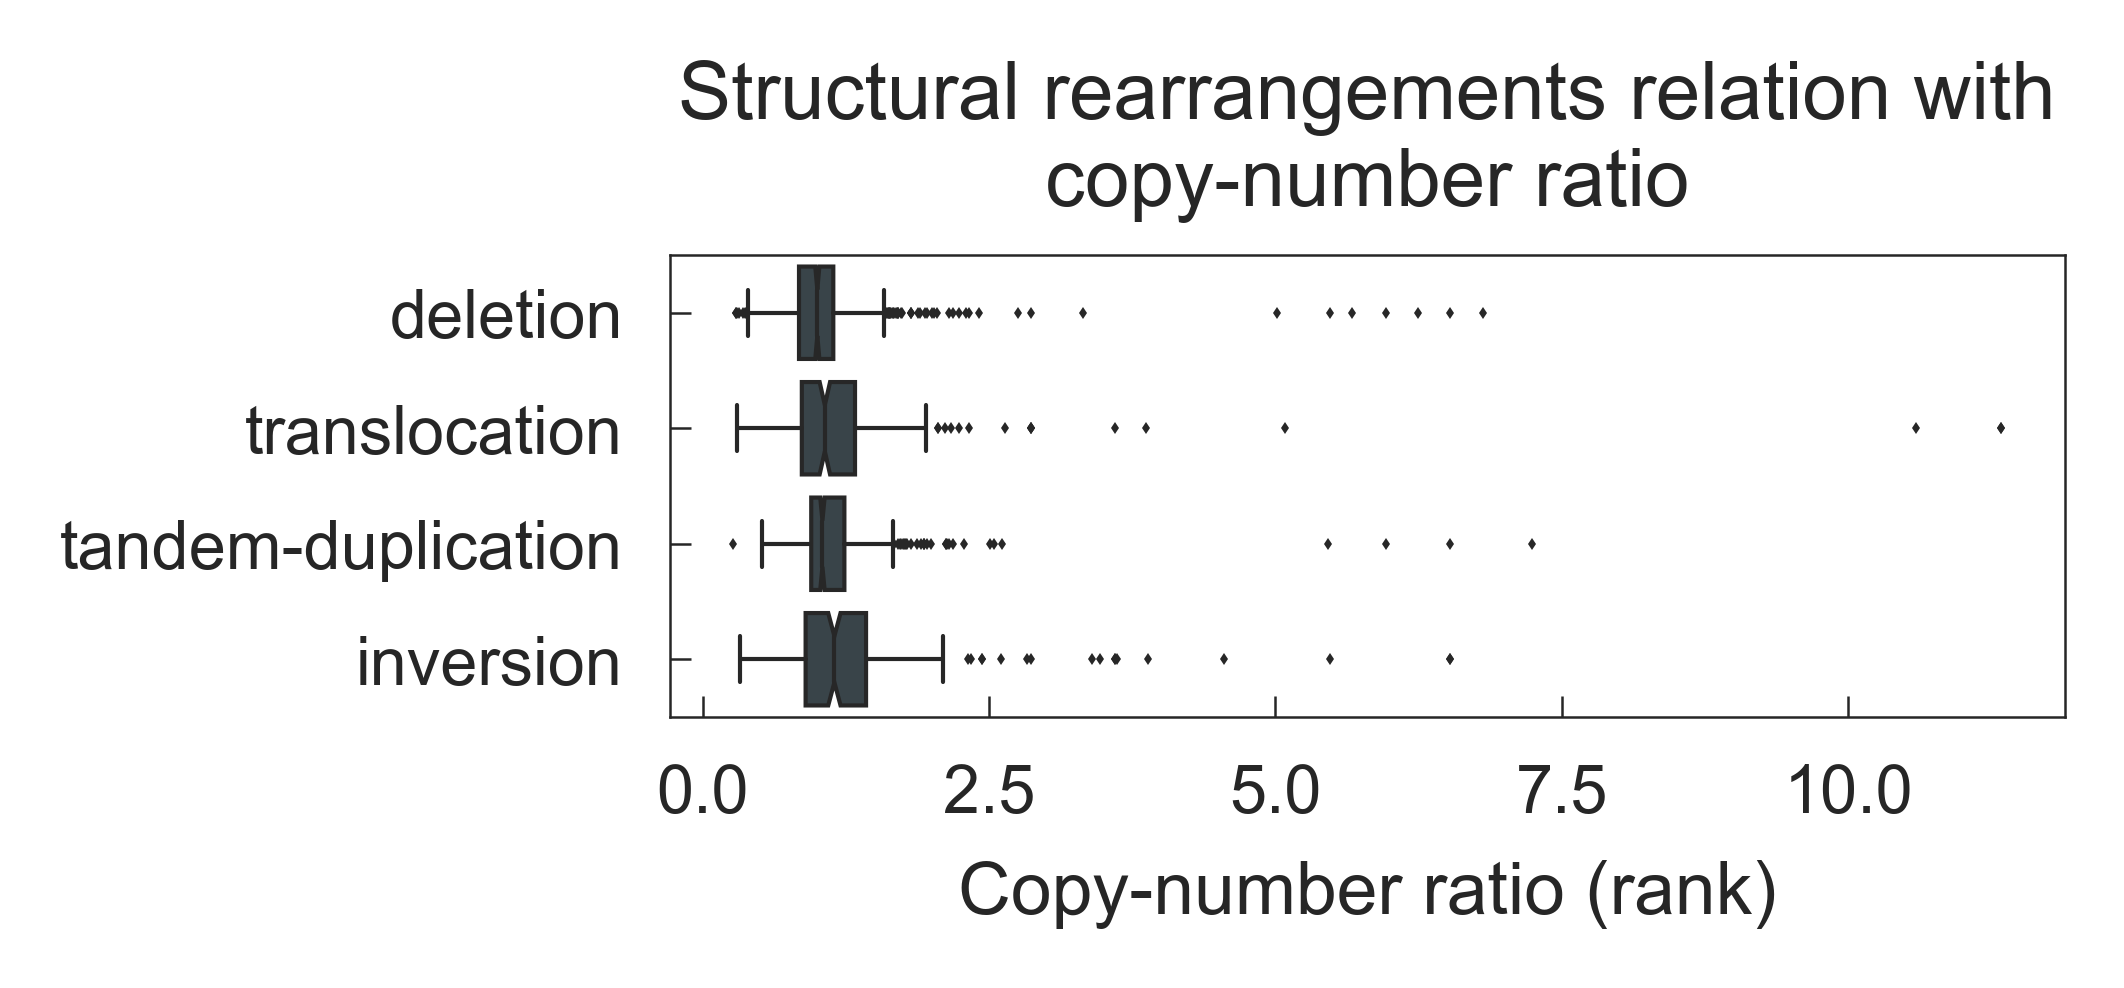
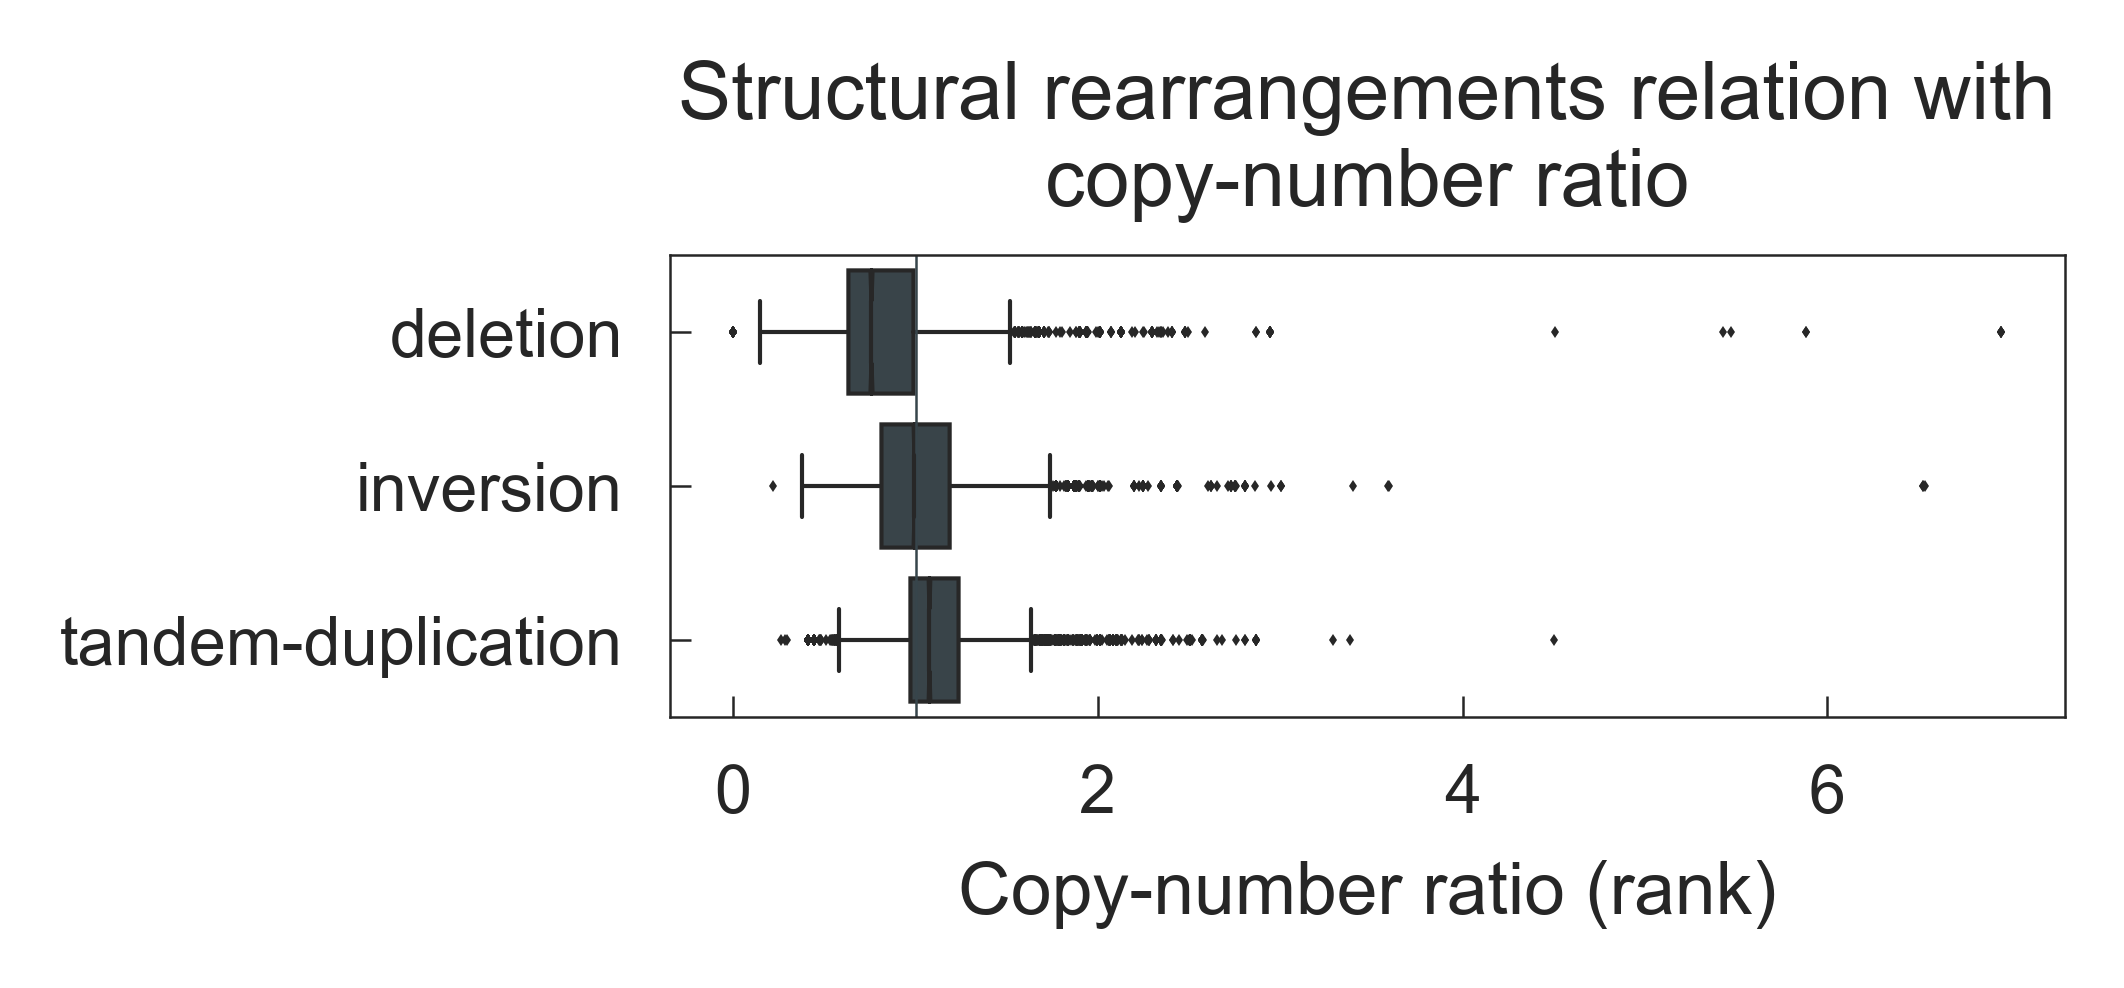
WGS Copy-number/CRISPR bias mapped.

diff --git a/scripts/crispy/annotate_bedpe.py b/scripts/crispy/annotate_bedpe.py
@@ -1,0 +1,229 @@
+#!/usr/bin/env python
+# Copyright (C) 2018 Emanuel Goncalves
+
+import os
+import numpy as np
+import pandas as pd
+import seaborn as sns
+import matplotlib.pyplot as plt
+from crispy import bipal_dbgd
+from pybedtools import BedTool
+from matplotlib.colors import rgb2hex
+from crispy.utils import multilabel_roc_auc_score
+from sklearn.metrics import roc_curve, auc, roc_auc_score
+from crispy.ratio import BRASS_HEADERS, GFF_FILE, GFF_HEADERS
+from scripts.crispy.processing.correct_cnv_bias import assemble_matrix
+
+
+def import_brass_bedpe(bedpe_file, same_chr=True, bkdist=2500, splitreads=True):
+    # Import BRASS bedpe
+    bedpe_df = pd.read_csv(bedpe_file, sep='\t', names=BRASS_HEADERS, comment='#')
+
+    # Correct sample name
+    bedpe_df['sample'] = bedpe_df['sample'].apply(lambda v: v.split(',')[0])
+
+    # Same chromossome SV
+    if same_chr:
+        bedpe_df = bedpe_df[bedpe_df['chr1'] == bedpe_df['chr2']]
+
+    # SV larger than threshold
+    bedpe_df = bedpe_df[bedpe_df['bkdist'] > bkdist]
+
+    # BRASS 2 annotated SV
+    if splitreads:
+        bedpe_df = bedpe_df.query("assembly_score != '_'")
+
+    # Assemble bed file
+    bed_df = pd.concat([
+        bedpe_df['chr1'].rename('#chr').apply(lambda x: 'chr{}'.format(x)),
+        bedpe_df['start1'].rename('start'),
+        bedpe_df['end2'].rename('end'),
+        bedpe_df['svclass'].rename('svclass')
+    ], axis=1)
+
+    return bed_df
+
+
+def annotate_bed(bed_file, methods='collapse,count'):
+    # Import Genes annotation bed file and specified bed file
+    gff, bed = BedTool(GFF_FILE).sort(), BedTool(bed_file).sort()
+
+    # Map GFF
+    genes_sv = gff.map(bed, c=4, o='collapse,count').to_dataframe(names=GFF_HEADERS + methods.split(','))
+
+    return genes_sv
+
+
+def annotate_brass_bedpe(bedpe_dir):
+    bed_dfs = []
+    for bedpe_file in map(lambda f: '{}/{}'.format(bedpe_dir, f), filter(lambda f: f.endswith('.brass.annot.bedpe'), os.listdir(bedpe_dir))):
+        print('[INFO] {}'.format(bedpe_file))
+
+        # Import and filter bedpe
+        bed_df = import_brass_bedpe(bedpe_file)
+
+        if bed_df.shape[0] > 0:
+            bed_file = '{}/{}.bed'.format(bedpe_dir, os.path.splitext(os.path.basename(bedpe_file))[0])
+            bed_df.to_csv(bed_file, sep='\t', index=False)
+
+            # Annotate SV with gene information
+            bed_annot_df = annotate_bed(bed_file).sort_values('count', ascending=False)
+
+            # Export
+            bed_annot_file = '{}/{}.genes.gff.tab'.format(bedpe_dir, os.path.splitext(os.path.basename(bedpe_file))[0])
+            bed_annot_df.to_csv(bed_annot_file, sep='\t', index=False)
+
+            # Append df
+            bed_annot_df = bed_annot_df.assign(sample=os.path.splitext(os.path.basename(bedpe_file))[0].split('.')[0])
+            bed_dfs.append(bed_annot_df)
+
+    # Assemble annotated bed dataframes
+    bed_dfs = pd.concat(bed_dfs)
+
+    # Filter genes without SVs
+    bed_dfs = bed_dfs.query("collapse != '.'")
+
+    return bed_dfs
+
+
+def plot_sv_ratios_arocs(plot_df, x='ratio', order=None):
+    order = ['deletion', 'inversion', 'tandem-duplication'] if order is None else order
+
+    ax = plt.gca()
+
+    for t, c in zip(order, map(rgb2hex, sns.light_palette(bipal_dbgd[0], len(order) + 1)[1:])):
+        y_true, y_score = plot_df['collapse'].map(lambda x: t in x).astype(int), plot_df[x]
+
+        fpr, tpr, _ = roc_curve(y_true, y_score)
+
+        ax.plot(fpr, tpr, label='{0:} (AUC={1:.2f})'.format(t.capitalize(), auc(fpr, tpr)), lw=1., c=c)
+
+    ax.plot((0, 1), (0, 1), 'k--', lw=.3, alpha=.5)
+    ax.set_xlim(0, 1)
+    ax.set_ylim(0, 1)
+    ax.set_xlabel('False positive rate')
+    ax.set_ylabel('True positive rate')
+    ax.set_title('Structural rearrangements relation with\ncopy-number ratio')
+
+    ax.legend(loc=4, prop={'size': 6})
+
+    return ax
+
+
+def plot_sv_ratios_arocs_per_sample(plot_df, groupby, x='ratio', y='collapse', order=None):
+    order = ['deletion', 'inversion', 'tandem-duplication'] if order is None else order
+    order_color = list(map(rgb2hex, sns.light_palette(bipal_dbgd[0], len(order) + 1)[1:]))
+
+    y_aucs = {}
+
+    for sample in set(plot_df[groupby]):
+        _plot_df = plot_df.query("{} == '{}'".format(groupby, sample)).dropna()
+
+        y_aucs[sample] = multilabel_roc_auc_score(y, x, _plot_df, min_events=5, invert=1)
+
+    y_aucs = pd.DataFrame(y_aucs).T.unstack().reset_index().dropna()
+    y_aucs.columns = ['svclass', 'sample', 'auc']
+
+    ax = plt.gca()
+
+    sns.boxplot('auc', 'svclass', data=y_aucs, orient='h', order=order, palette=order_color, notch=True, linewidth=.5, fliersize=1, ax=ax)
+    sns.stripplot('auc', 'svclass', data=y_aucs, orient='h', order=order, palette=order_color, edgecolor='white', linewidth=.1, size=3, jitter=.4, ax=ax)
+    plt.axvline(.5, lw=.3, c=bipal_dbgd[0])
+    plt.title('Structural rearrangements relation with\ncopy-number ratio')
+    plt.xlabel('Structural rearrangements ~ Copy-number ratio (AUC)')
+    plt.ylabel('')
+
+    return ax
+
+
+def plot_sv_ratios_boxplots(plot_df, x='ratio', y='collapse', order=None):
+    order = ['deletion', 'inversion', 'tandem-duplication'] if order is None else order
+
+    ax = plt.gca()
+
+    sns.boxplot(x, y, data=plot_df, orient='h', order=order, color=bipal_dbgd[0], notch=True, linewidth=.5, fliersize=1, ax=ax)
+    plt.axvline(1., lw=.3, c=bipal_dbgd[0])
+    plt.title('Structural rearrangements relation with\ncopy-number ratio')
+    plt.xlabel('Copy-number ratio (rank)')
+    plt.ylabel('')
+
+    return ax
+
+
+if __name__ == '__main__':
+    bedpe_dir = 'data/gdsc/wgs/brass_bedpe'
+
+    # Annotate BRASS bedpes
+    bed_dfs = annotate_brass_bedpe(bedpe_dir)
+    bed_dfs.to_csv('{}/{}'.format(os.path.dirname(bedpe_dir), 'brass.genes.gff.tab'), index=False, sep='\t')
+
+    # - Append information of copy-number ratio
+    # Import copy-number
+    cnv_ratios = pd.read_csv('data/crispy_copy_number_gene_ratio_wgs.csv', index_col=0)
+
+    # Overlap
+    samples = list(set(cnv_ratios).intersection(bed_dfs['sample']))
+    print('Samples: {}'.format(len(samples)))
+
+    # Append ratios
+    brass = bed_dfs.assign(ratio=[cnv_ratios.loc[g, s] for s, g in bed_dfs[['sample', 'feature']].values])
+
+    # - Plot: Copy-number ratio
+    plot_df = brass.query('count == 1').dropna().sort_values('ratio', ascending=False)
+
+    # AROCs
+    ax = plot_sv_ratios_arocs(plot_df)
+
+    plt.gcf().set_size_inches(3, 3)
+    plt.savefig('reports/crispy/brass_sv_ratio_cumdist.png', bbox_inches='tight', dpi=600)
+    plt.close('all')
+
+    # Boxplots
+    ax = plot_sv_ratios_boxplots(plot_df)
+
+    plt.gcf().set_size_inches(3, 1)
+    plt.savefig('reports/crispy/brass_sv_ratio_boxplot.png', bbox_inches='tight', dpi=600)
+    plt.close('all')
+
+    # SV enrichment per sample
+    plot_sv_ratios_arocs_per_sample(plot_df, 'sample')
+
+    plt.gcf().set_size_inches(3, 1)
+    plt.savefig('reports/crispy/brass_sv_ratio_boxplot_auc.png', bbox_inches='tight', dpi=600)
+    plt.close('all')
+
+    # - Plot: CRISPR fold-change
+    # CRISPR
+    c_gdsc_fc = pd.read_csv('data/crispr_gdsc_logfc.csv', index_col=0)
+    # c_gdsc_crispy_kmean = assemble_matrix('data/crispy/gdsc/', 'k_mean')
+
+    # Overlap
+    samples = list(set(cnv_ratios).intersection(bed_dfs['sample']).intersection(c_gdsc_fc))
+    print('Samples: {}'.format(len(samples)))
+
+    # Append ratios
+    brass_crispr = bed_dfs.assign(crispr=[c_gdsc_fc.loc[g, s] if s in samples and g in c_gdsc_fc.index else np.nan for s, g in bed_dfs[['sample', 'feature']].values]).dropna()
+
+    # Plot
+    plot_df = brass_crispr.query('count == 1').dropna().sort_values('crispr', ascending=False)
+
+    # AROCs
+    ax = plot_sv_ratios_arocs(plot_df, x='crispr')
+
+    plt.gcf().set_size_inches(3, 3)
+    plt.savefig('reports/crispy/brass_crispr_sv_ratio_cumdist.png', bbox_inches='tight', dpi=600)
+    plt.close('all')
+
+    # Boxplots
+    ax = plot_sv_ratios_boxplots(plot_df, x='crispr')
+
+    plt.gcf().set_size_inches(3, 1)
+    plt.savefig('reports/crispy/brass_crispr_sv_ratio_boxplot.png', bbox_inches='tight', dpi=600)
+    plt.close('all')
+
+    # SV enrichment per sample
+    plot_sv_ratios_arocs_per_sample(plot_df, 'sample', x='crispr')
+
+    plt.gcf().set_size_inches(3, 1)
+    plt.savefig('reports/crispy/brass_crispr_sv_ratio_boxplot_auc.png', bbox_inches='tight', dpi=600)
+    plt.close('all')

diff --git a/crispy/ratio.py b/crispy/ratio.py
@@ -13,6 +13,17 @@ GFF_FILE = 'data/gene_sets/gencode.gene.annotation.gff'
 
 GFF_HEADERS = ['chr', 'db', 'type', 'start', 'end', 'score', 'strand', 'frame', 'feature']
 
+BRASS_HEADERS = [
+    'chr1', 'start1', 'end1', 'chr2', 'start2', 'end2', 'id/name', 'brass_score', 'strand1', 'strand2', 'sample', 'svclass',
+    'bkdist', 'assembly_score', 'readpair names', 'readpair count', 'bal_trans', 'inv', 'occL', 'occH', 'copynumber_flag',
+    'range_blat', 'Brass Notation', 'non-template', 'micro-homology', 'assembled readnames', 'assembled read count', 'gene1',
+    'gene_id1', 'transcript_id1', 'strand1', 'end_phase1', 'region1', 'region_number1', 'total_region_count1', 'first/last1',
+    'gene2', 'gene_id2', 'transcript_id2', 'strand2', 'phase2', 'region2', 'region_number2', 'total_region_count2',
+    'first/last2', 'fusion_flag'
+]
+
+# TODO: Add Documentation
+
 
 def read_gff_dataframe(gff_file=None):
     gff = BedTool(GFF_FILE if gff_file is None else gff_file).sort()
@@ -20,7 +31,6 @@ def read_gff_dataframe(gff_file=None):
     return gff
 
 
-# TODO: Add Documentation
 def map_cn(bed_file, method='min,max,mean,median,collapse,count', cn_field_pos=4, null=np.nan):
     # - Imports
     # Import Genes annotation bed file and specified bed file
